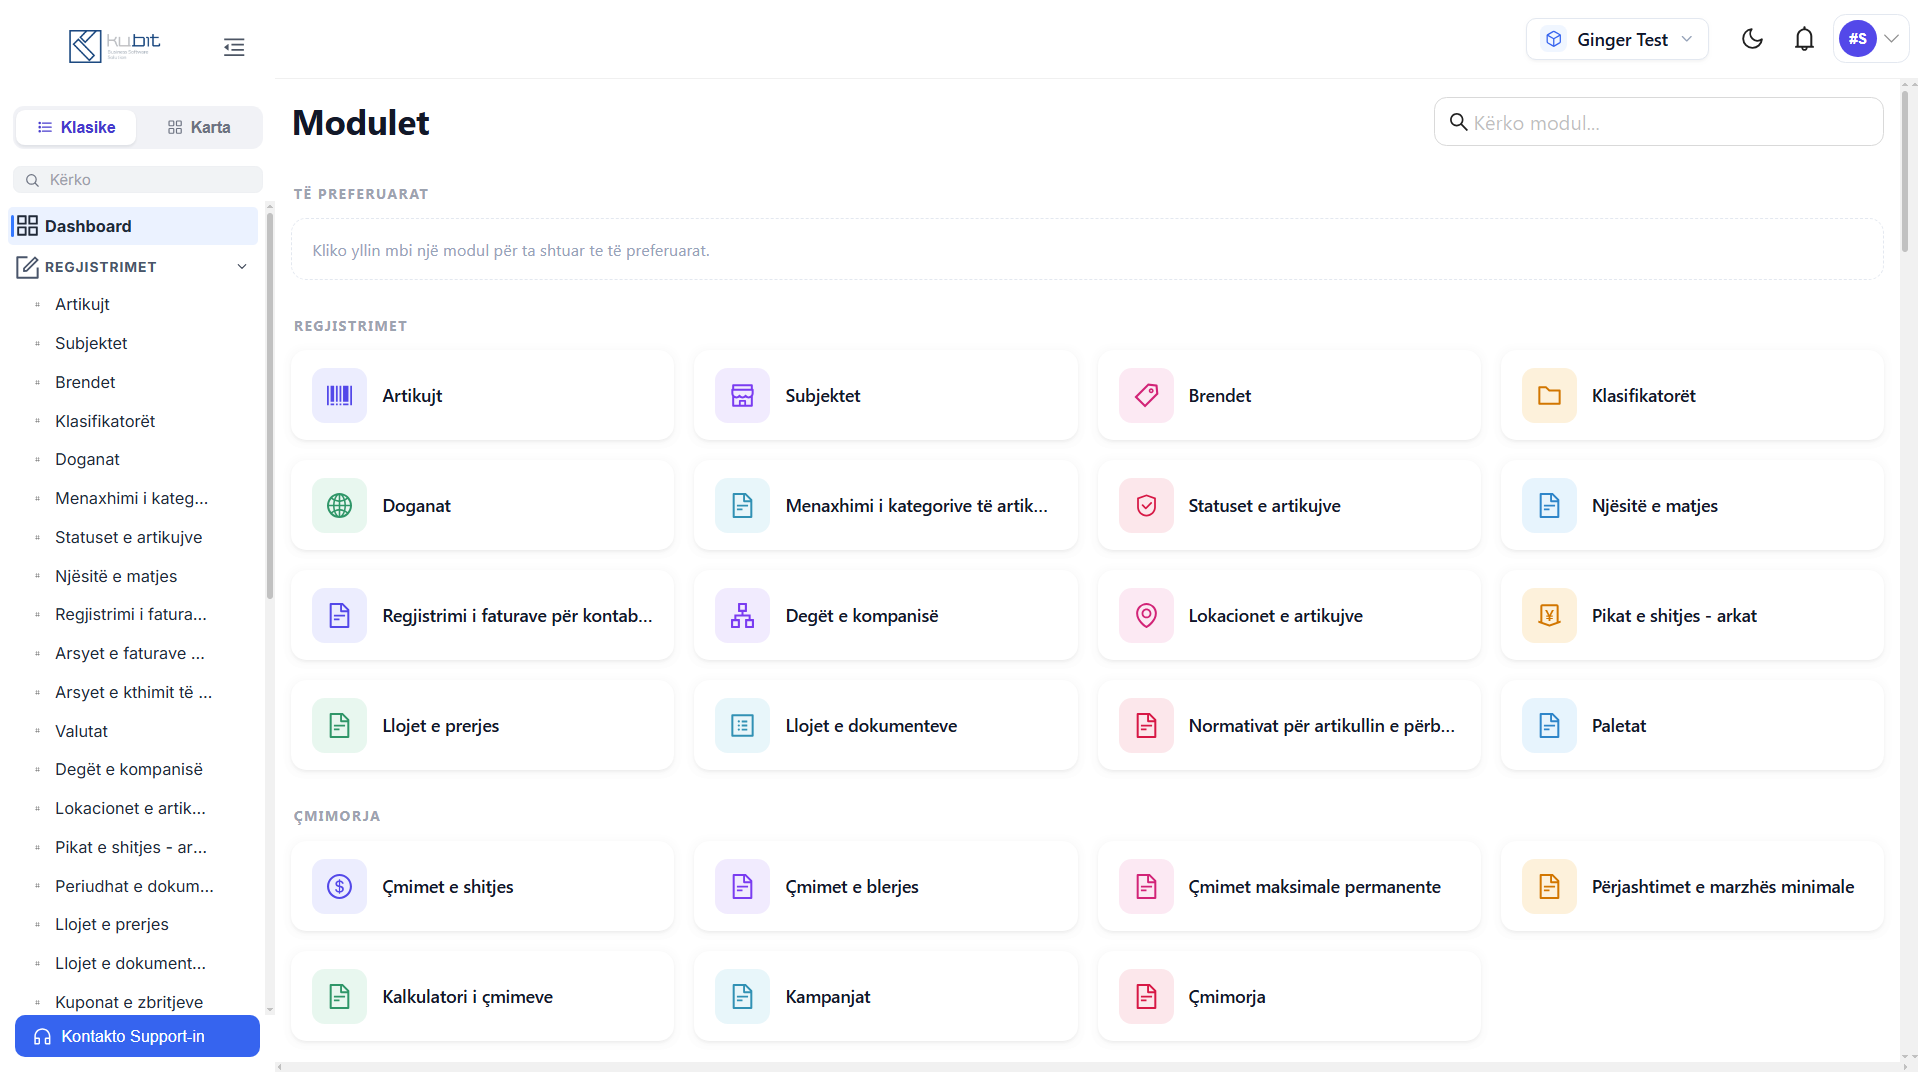
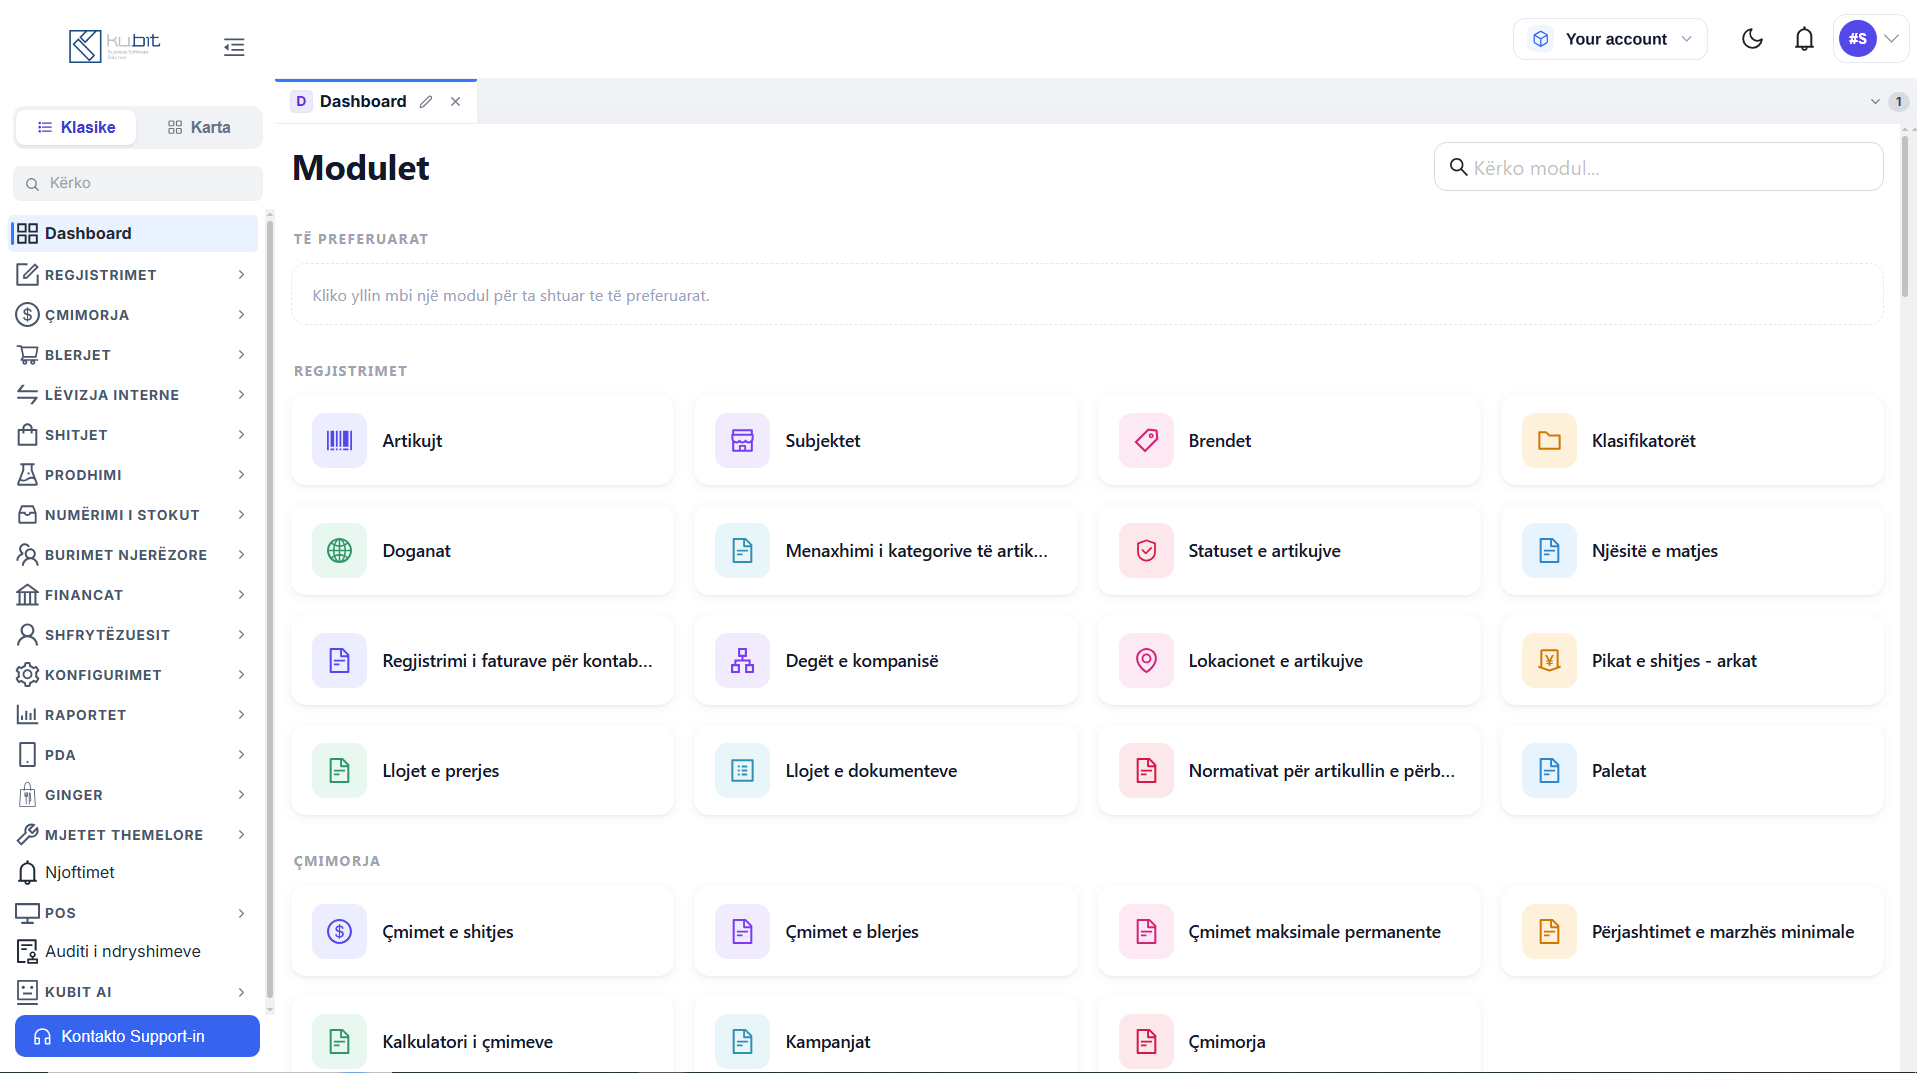
h

diff --git a/src/i18n/sq.ts b/src/i18n/sq.ts
@@ -156,12 +156,12 @@ export const sq: Dictionary = {
       title: "Teknologjia që e mban biznesin në lëvizje.",
       intro: "Nga infrastruktura dhe cloud-i te siguria, integrimet dhe automatizimi, KuBIT ju ndihmon ta mbani teknologjinë të qëndrueshme dhe të gatshme për rritje.",
       items: [
-        { title: "Managed IT", text: "Monitorim, mirëmbajtje dhe mbështetje e vazhdueshme për sistemet dhe përdoruesit tuaj." },
-        { title: "Infrastructure", text: "Serverë, rrjet, Wi-Fi, firewall dhe pajisje të konfiguruara për punë të sigurt." },
-        { title: "Security & Backup", text: "Mbrojtje e të dhënave, kopje rezervë dhe procese rikuperimi për vazhdimësi." },
-        { title: "Cloud", text: "Shërbime cloud të përshtatura për qasje, bashkëpunim dhe shkallëzim." },
-        { title: "Integration", text: "Lidhje mes sistemeve tuaja që të dhënat dhe proceset të rrjedhin pa pengesa." },
-        { title: "Analytics & Automation", text: "Raporte dhe automatizime që ju ndihmojnë të punoni më shpejt dhe të vendosni më mirë." },
+        { title: "Managed IT", text: "Monitorojmë, mirëmbajmë dhe mbështesim sistemet tuaja çdo ditë, që ekipi të ketë teknologji të qëndrueshme dhe të gatshme për punë. Nga kërkesat e përdoruesve deri te problemet kritike, reagojmë me procese dhe prioritete të qarta." },
+        { title: "Infrastructure", text: "Planifikojmë dhe administrojmë serverët, rrjetin, Wi-Fi-n, firewall-in dhe pajisjet kryesore të biznesit. Infrastruktura dokumentohet, standardizohet dhe përgatitet për rritje, siguri dhe vazhdimësi më të mirë." },
+        { title: "Security & Backup", text: "Mbrojmë të dhënat dhe sistemet me politika sigurie, kopje rezervë të kontrolluara dhe plane rikuperimi. Kjo ndihmon që biznesi të vazhdojë punën edhe kur ndodh një gabim, humbje e të dhënave ose ndërprerje." },
+        { title: "Cloud", text: "Konfigurojmë shërbime cloud që u japin ekipeve qasje të sigurt, bashkëpunim më të lehtë dhe fleksibilitet për t'u rritur. Zgjidhjet përshtaten me aplikacionet, përdoruesit dhe kërkesat reale të biznesit." },
+        { title: "Integration", text: "Lidhim ERP-në, POS-in, pajisjet dhe sistemet e tjera që të dhënat të lëvizin pa futje të dyfishtë dhe pa procese të shkëputura. Integrimet e bëjnë punën më të shpejtë, më të saktë dhe më të kontrollueshme." },
+        { title: "Analytics & Automation", text: "Kthejmë të dhënat e operacioneve në raporte të kuptueshme dhe automatizojmë detyrat që përsëriten. Kështu kurseni kohë, dalloni më shpejt problemet dhe merrni vendime të bazuara në të dhëna." },
       ],
     },
     support: {

diff --git a/src/i18n/en.ts b/src/i18n/en.ts
@@ -99,12 +99,12 @@ export const en: Dictionary = {
       title: "Technology that keeps your business moving.",
       intro: "From infrastructure and cloud to security, integrations and automation, KuBIT keeps your technology stable and ready to grow.",
       items: [
-        { title: "Managed IT", text: "Ongoing monitoring, maintenance and support for your systems and users." },
-        { title: "Infrastructure", text: "Servers, networks, Wi-Fi, firewalls and equipment configured for secure work." },
-        { title: "Security & Backup", text: "Data protection, backups and recovery processes for business continuity." },
-        { title: "Cloud", text: "Cloud services tailored for access, collaboration and scale." },
-        { title: "Integration", text: "Connect your systems so data and processes flow without friction." },
-        { title: "Analytics & Automation", text: "Reporting and automation that help you work faster and decide better." },
+        { title: "Managed IT", text: "We monitor, maintain and support your systems every day so your team has stable technology ready for work. From user requests to critical issues, we respond with clear processes and priorities." },
+        { title: "Infrastructure", text: "We plan and manage servers, networks, Wi-Fi, firewalls and the equipment your business depends on. Infrastructure is documented, standardised and prepared for growth, security and continuity." },
+        { title: "Security & Backup", text: "We protect data and systems with security policies, controlled backups and recovery plans. This helps your business keep operating through mistakes, data loss or unexpected disruption." },
+        { title: "Cloud", text: "We configure cloud services that give teams secure access, easier collaboration and flexibility to scale. Solutions are shaped around your applications, users and real business requirements." },
+        { title: "Integration", text: "We connect ERP, POS, devices and other systems so information moves without duplicate entry or disconnected processes. Integrations make work faster, more accurate and easier to control." },
+        { title: "Analytics & Automation", text: "We turn operational data into clear reports and automate repetitive tasks. You save time, spot issues earlier and make decisions based on reliable information." },
       ],
     },
     support: {

diff --git a/src/components/Header.tsx b/src/components/Header.tsx
@@ -1,5 +1,6 @@
 import { Logo } from "./Logo"
-import { useState } from "react"
+import { useEffect, useRef, useState } from "react"
+import type { MouseEvent as ReactMouseEvent } from "react"
 import { useI18n } from "../i18n"
 import { BarChart3, Boxes, Coffee, FileText, Monitor, Package, Wrench } from "lucide-react"
 
@@ -20,10 +21,34 @@ type HeaderProps = {
 export function Header({ scrolled, open, onToggle }: HeaderProps) {
   const { t, locale, setLocale } = useI18n()
   const [lockedMenu, setLockedMenu] = useState<string | null>(null)
+  const headerRef = useRef<HTMLElement>(null)
   const onInnerPage = ["/produkti", "/pakot", "/sherbime-it", "/support", "/rreth-nesh"].includes(window.location.pathname.toLowerCase())
 
+  useEffect(() => {
+    const closeOnOutsideClick = (event: MouseEvent) => {
+      if (!headerRef.current?.contains(event.target as Node)) setLockedMenu(null)
+    }
+    const closeOnEscape = (event: KeyboardEvent) => {
+      if (event.key === "Escape") setLockedMenu(null)
+    }
+
+    document.addEventListener("mousedown", closeOnOutsideClick)
+    document.addEventListener("keydown", closeOnEscape)
+    return () => {
+      document.removeEventListener("mousedown", closeOnOutsideClick)
+      document.removeEventListener("keydown", closeOnEscape)
+    }
+  }, [])
+
+  const handleMenuTriggerClick = (event: ReactMouseEvent<HTMLButtonElement>, label: string) => {
+    event.stopPropagation()
+    const shouldClose = lockedMenu === label
+    setLockedMenu(shouldClose ? null : label)
+    if (shouldClose) event.currentTarget.blur()
+  }
+
   return (
-    <header className={`nav ${scrolled ? "nav--scrolled" : ""} ${open ? "nav--open" : ""}`}>
+    <header ref={headerRef} className={`nav ${scrolled ? "nav--scrolled" : ""} ${open ? "nav--open" : ""}`}>
       <div className="nav-inner">
         <Logo />
 
@@ -39,7 +64,7 @@ export function Header({ scrolled, open, onToggle }: HeaderProps) {
                 className="nav-menu-trigger"
                 aria-haspopup="true"
                 aria-expanded={lockedMenu === group.label}
-                onClick={() => setLockedMenu((current) => current === group.label ? null : group.label)}
+                onClick={(event) => handleMenuTriggerClick(event, group.label)}
               >
                 {group.label}
               </button>

diff --git a/src/index.css b/src/index.css
@@ -129,13 +129,13 @@ h3,
 
 .service-page-grid {
   display: grid;
-  grid-template-columns: repeat(3, 1fr);
-  gap: 14px;
+  grid-template-columns: repeat(2, 1fr);
+  gap: 18px;
 }
 
 .service-page-item {
-  min-height: 210px;
-  padding: 25px;
+  min-height: 300px;
+  padding: 34px;
   border: 1px solid var(--line);
   border-radius: var(--radius);
   background: var(--white);
@@ -153,13 +153,15 @@ h3,
 }
 
 .service-page-item h2 {
-  margin: 17px 0 7px;
-  font-size: 1.1rem;
+  margin: 22px 0 10px;
+  font-size: clamp(1.25rem, 2vw, 1.55rem);
 }
 
 .service-page-item p {
   margin: 0;
   color: var(--ink-soft);
+  font-size: 1rem;
+  line-height: 1.7;
 }
 
 .partners-page-section {
@@ -252,6 +254,11 @@ h3,
   width: 100%;
   height: 300px;
   object-fit: cover;
+  transition: transform .45s ease;
+}
+
+.packages-product-image:hover img {
+  transform: scale(1.045);
 }
 
 .packages-product:nth-child(1) .packages-product-image img {
@@ -422,8 +429,10 @@ h3,
 
 .nav-links {
   display: flex;
+  flex: 1;
   gap: 4px;
   align-items: center;
+  justify-content: center;
 }
 
 .nav-menu {
@@ -441,9 +450,21 @@ h3,
 }
 
 .nav-menu-trigger::after {
-  content: "⌄";
-  margin-left: 5px;
+  content: "";
+  display: inline-block;
+  width: 6px;
+  height: 6px;
+  margin: 0 0 3px 7px;
   color: var(--brand);
+  border-right: 1.5px solid currentColor;
+  border-bottom: 1.5px solid currentColor;
+  transform: rotate(45deg);
+  transition: transform .18s ease;
+}
+
+.nav-menu.is-open .nav-menu-trigger::after {
+  margin-bottom: -2px;
+  transform: rotate(225deg);
 }
 
 .nav-menu-trigger:hover,
